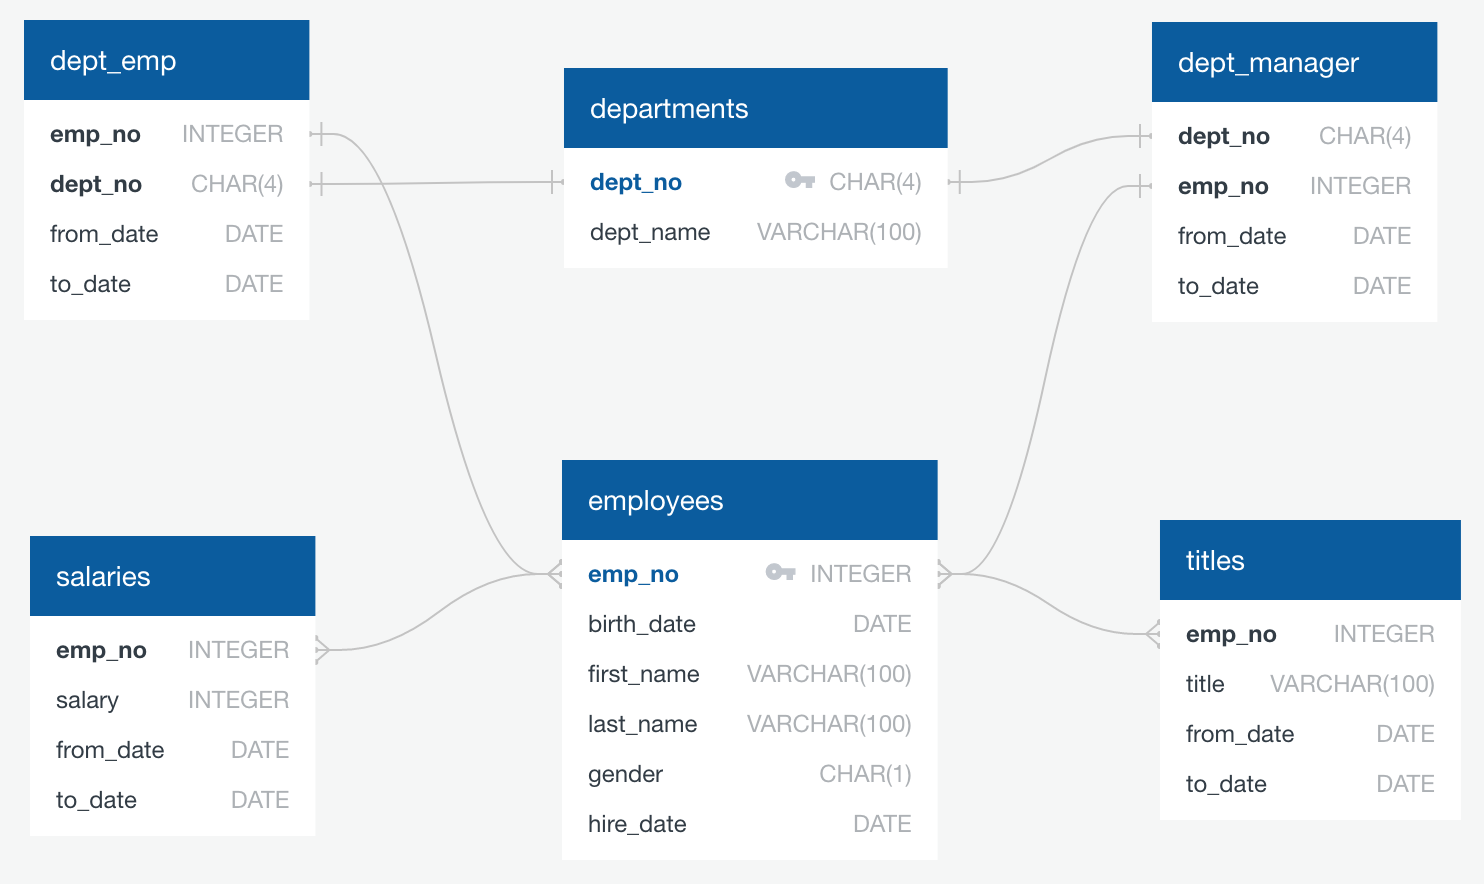
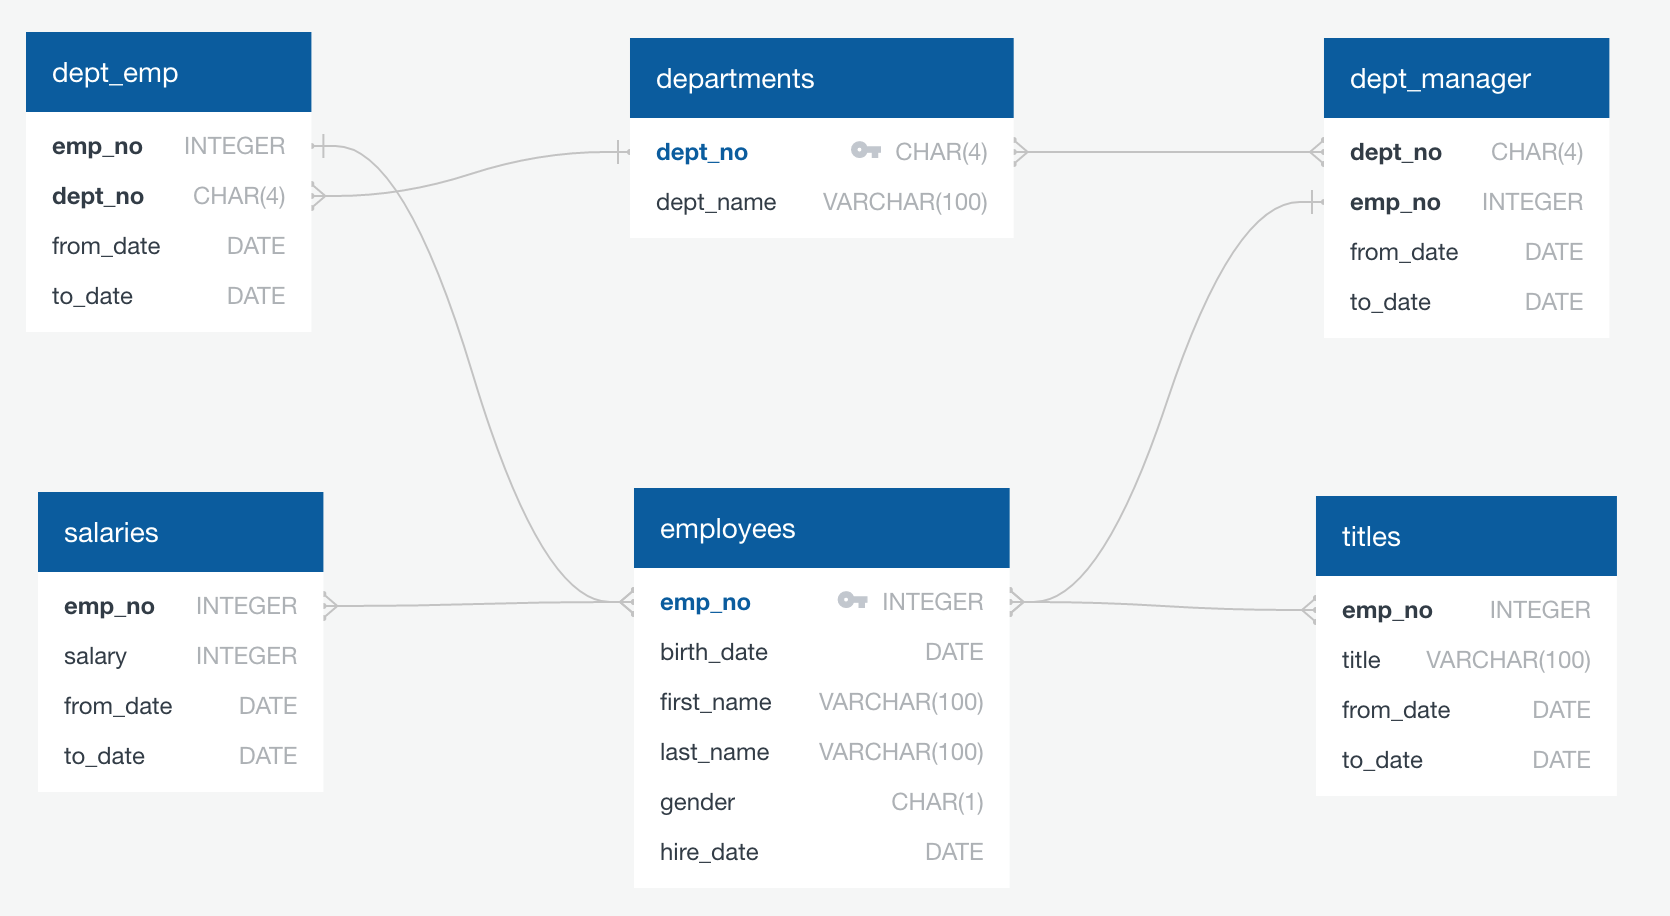
fixed data model

diff --git a/EmployeeSQL/data_engineering_steps.md b/EmployeeSQL/data_engineering_steps.md
@@ -12,10 +12,10 @@ It was found that there are really two "main" tables: *departments* and *employe
 
 ## Relationships
 
-* **departments 1-to-1 to dept_emp**: employees can belong to one and only one department
-* **departments 1-to-1 to dept_manager**: departments can have one and only one assigned manager
+* **departments 1-to-many to dept_emp**: employees can belong to more than one department over time (for example, switching departments)
+* **departments many-to-many to dept_manager**: departments can multiple managers assigned to them over time. Managers can (theoretically at least) manage multiple departments over time
 * **employees many-to-many to titles**: employees can have more than one title as they may be promoted. One title can have many employees assigned with the same title. Therefore, a many-to-many relationship
-* **employees many-to-many to salaries**: mirror of previous relationship. Because employees can have more than one title as they get promoted, they may have more than one salary level. One salary level can have many employees as multiple employees can make the same salary. There, a many-to-many relationship
+* **employees many-to-many to salaries**: mirror of previous relationship. Because employees can have more than one title as they get promoted, they may have more than one salary level. One salary level can have many employees as multiple employees can make the same salary. Therefore, a many-to-many relationship
 * **employees many-to-1 to dept_emp**: a department can contain multiple employees
 * **employees many-to-1 to dept_manager**: a manager can have many employees under his/her team
 
